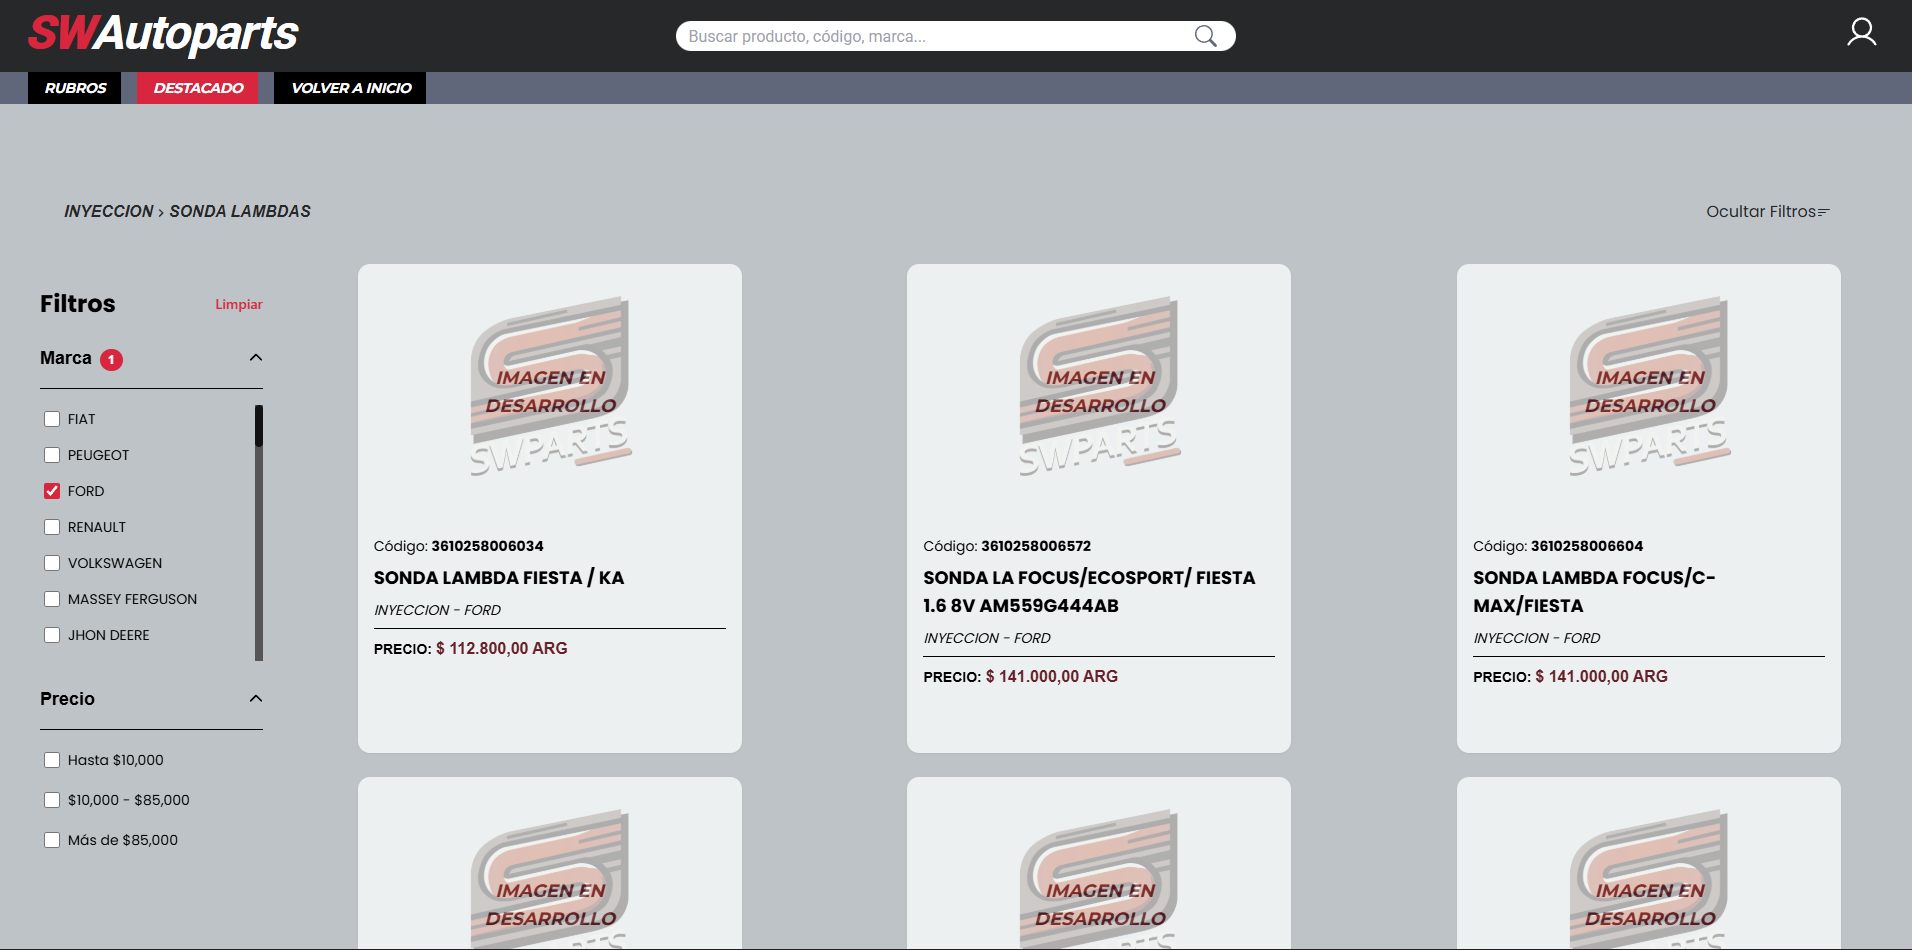
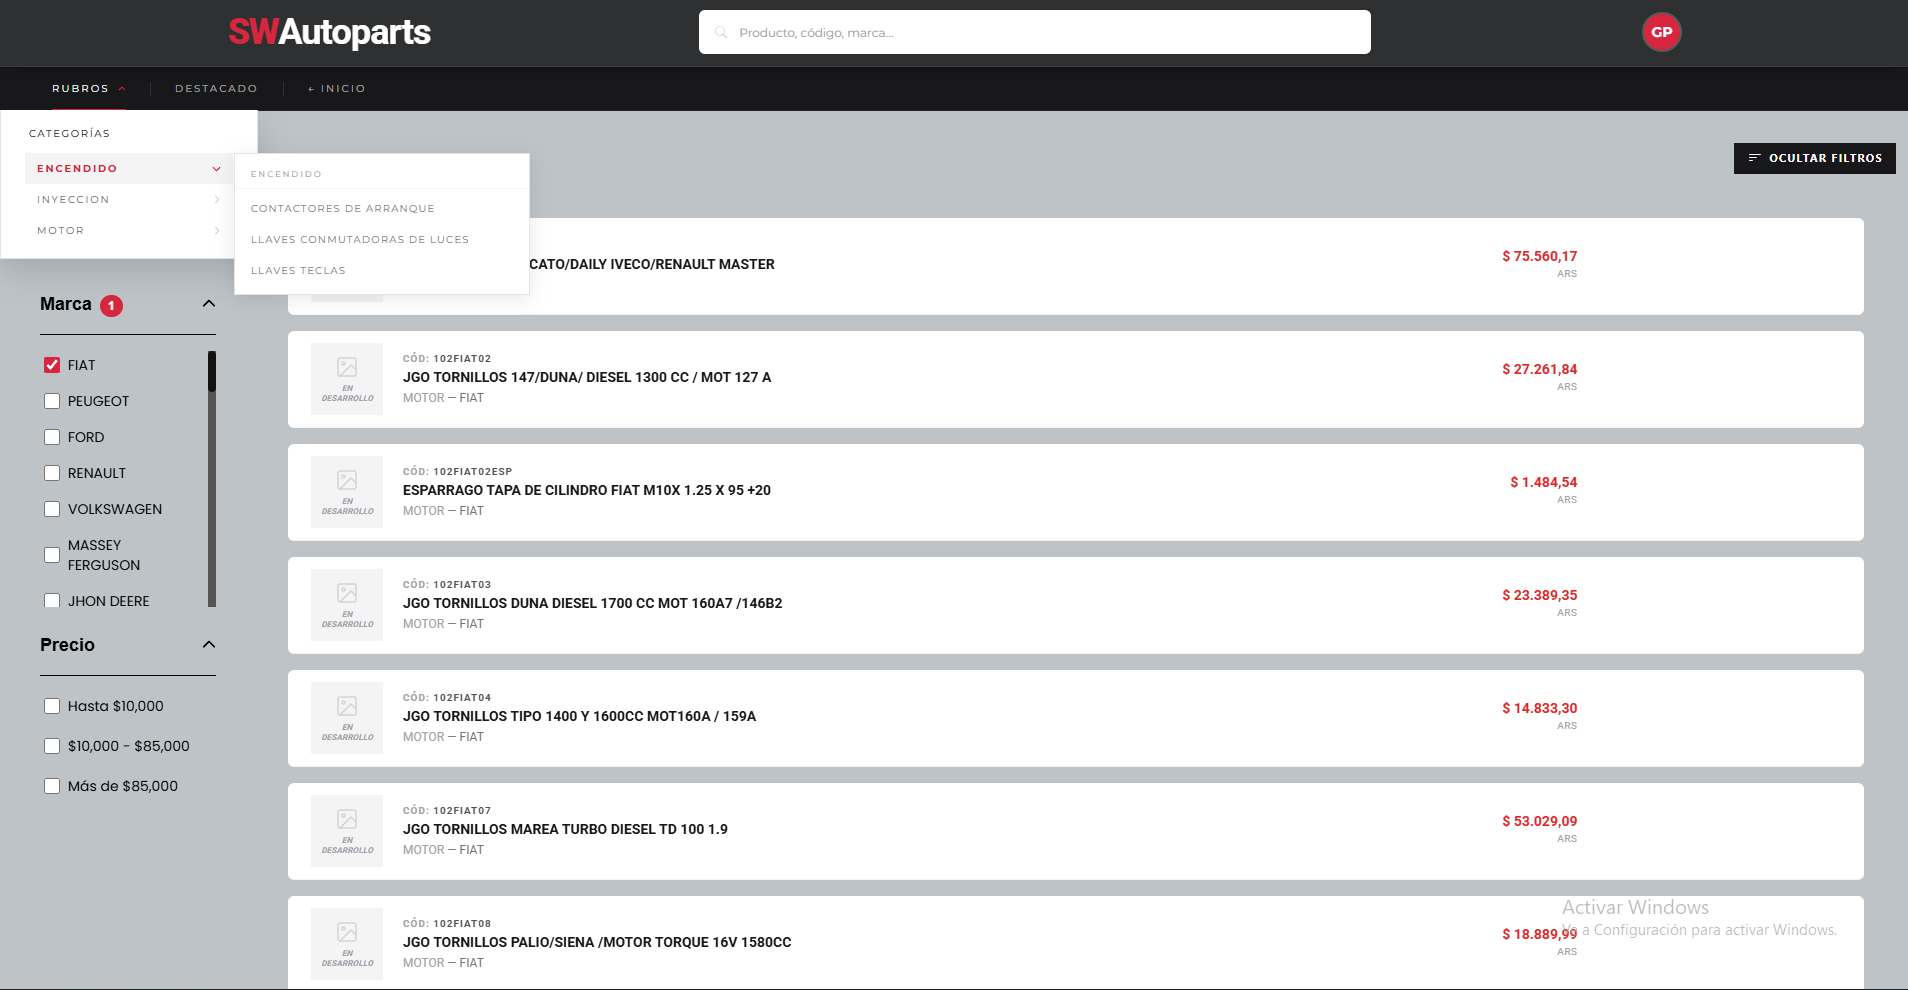
change screens

diff --git a/src/lib/data.ts b/src/lib/data.ts
@@ -81,12 +81,12 @@ export const projects: Project[] = [
         screenshots: {
             primary: {
                 // Put your screenshot in /public/images/sw-catalog.png
-                src: '/images/sw-catalog.png',
+                src: '/images/sw-home.png',
                 alt: 'SW Autoparts product catalog with filters',
             },
             secondary: {
                 // Put your screenshot in /public/images/sw-product.png
-                src: '/images/sw-product.png',
+                src: '/images/sw-catalog.png',
                 alt: 'SW Autoparts product detail page',
             },
         },
